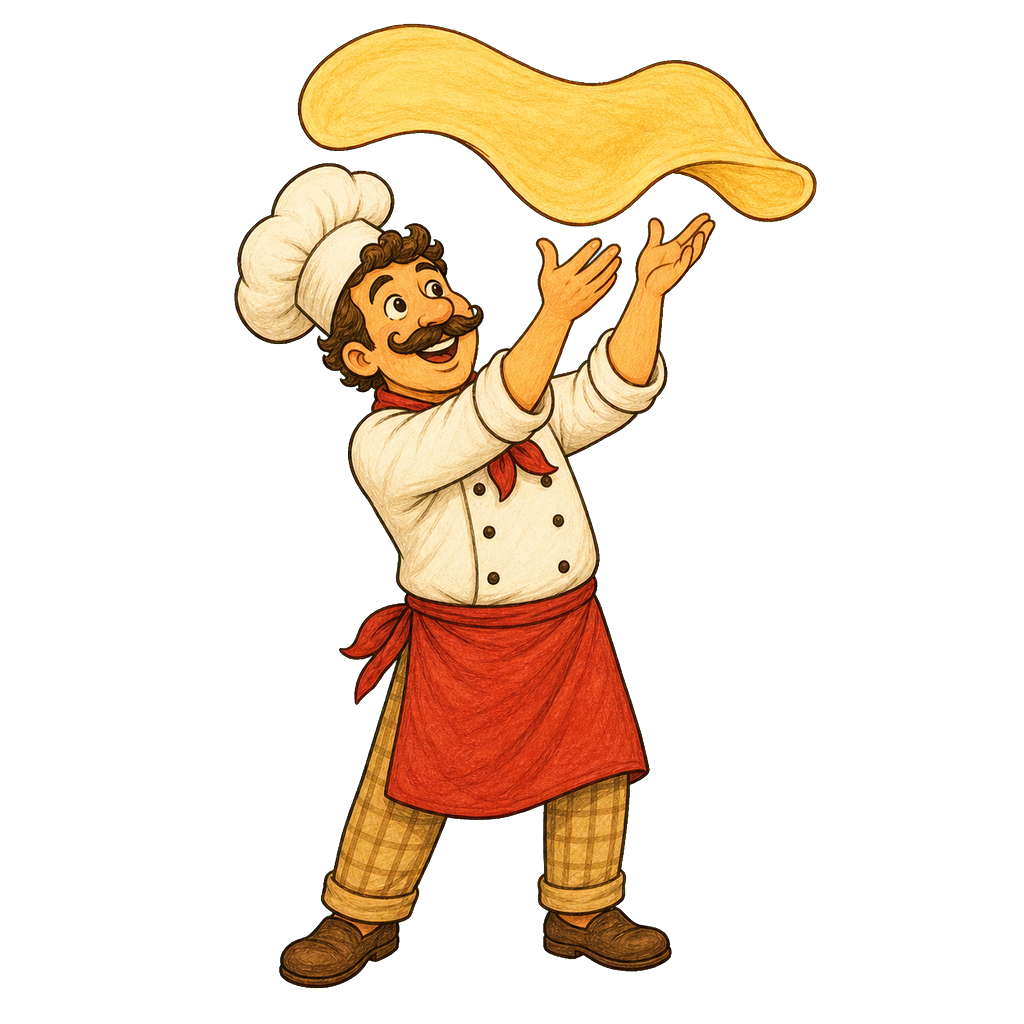
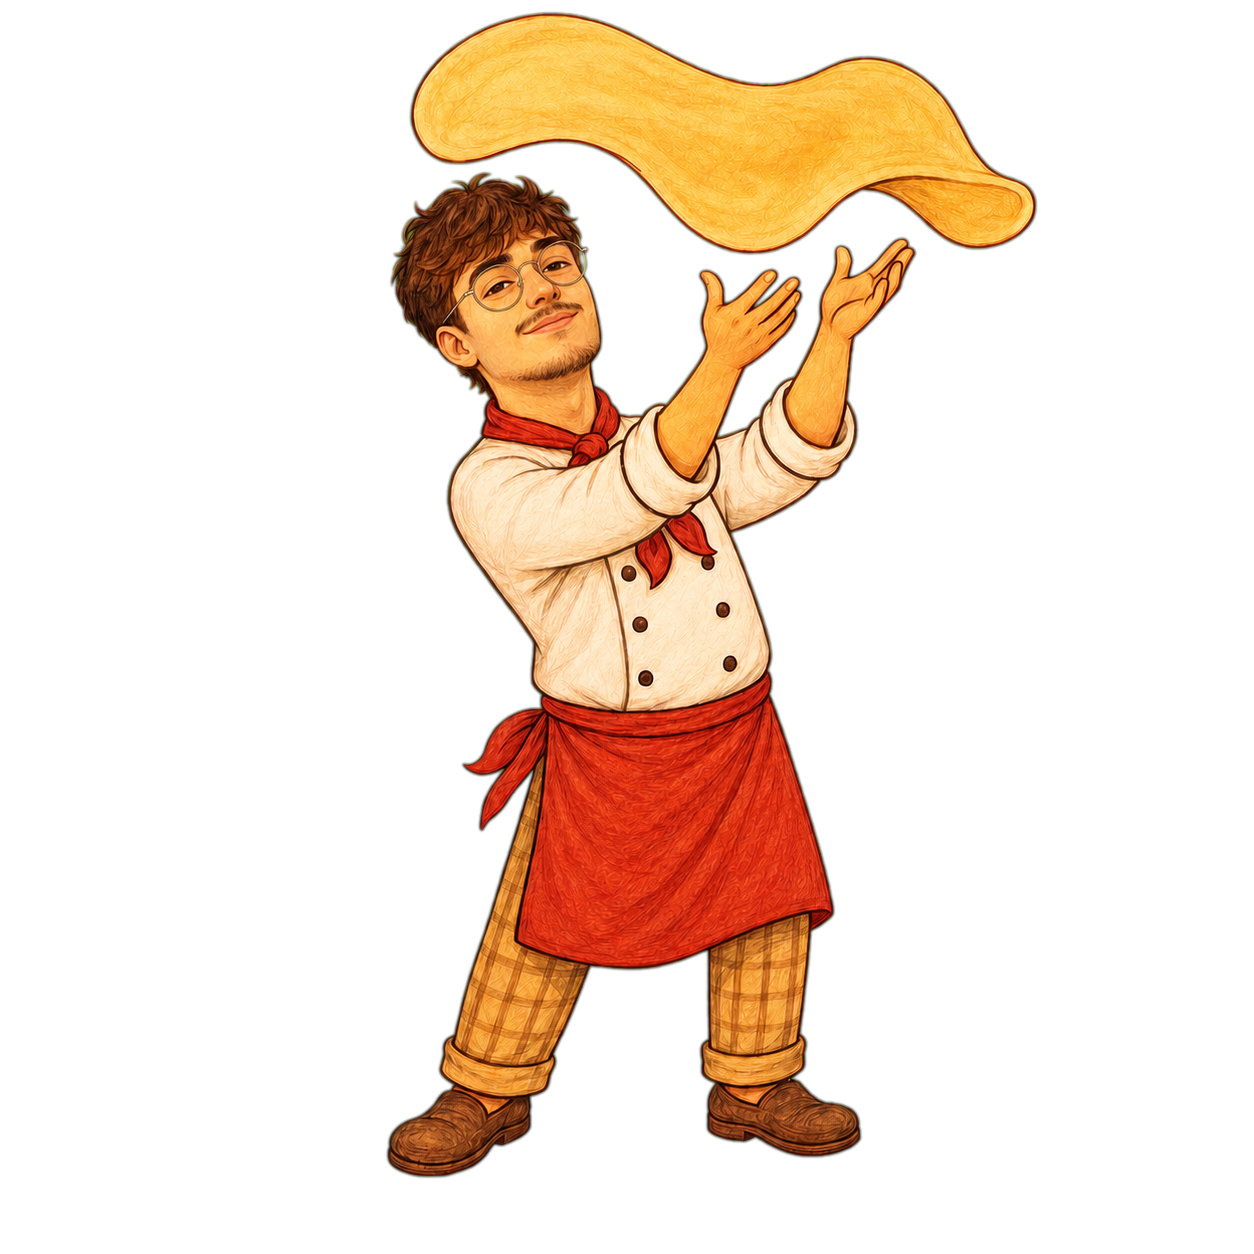
fix: update chef card image for improved visual consistency

Changed region(s): [[0.2188, 0.0, 0.8438, 0.9688]]

diff --git a/packages/engine/src/scoring.ts b/packages/engine/src/scoring.ts
@@ -53,6 +53,17 @@ export function scorePlayer(player: PlayerState): PlayerScore {
         chefStep = { label: chef.name, op: "add", value: bonus, before, after: acc };
         break;
       }
+      case "addPerDifferentLayerType": {
+        const layerTypes = new Set(
+          player.lasagna
+            .filter((l) => l.origin === "own" && l.subtype !== undefined)
+            .map((l) => l.subtype),
+        );
+        const bonus = layerTypes.size * chef.effect.value;
+        acc = before + bonus;
+        chefStep = { label: chef.name, op: "add", value: bonus, before, after: acc };
+        break;
+      }
       case "addPerCondimentPlayed": {
         const count = player.lasagna.filter(
           (l) => l.origin === "own" && l.subtype === undefined,

diff --git a/packages/engine/src/cards.ts b/packages/engine/src/cards.ts
@@ -255,6 +255,14 @@ export const CHEFS: readonly ChefCard[] = [
     effect: { kind: "multiplyTotal", factor: 1.15 },
     image: "card_chef_lidia.png",
   },
+  {
+    kind: "chef",
+    id: "chef_galvez",
+    name: "Gálvez",
+    description: "Suma 3 puntos por cada tipo de capa diferente que hayas colocado (máx. +9).",
+    effect: { kind: "addPerDifferentLayerType", value: 3 },
+    image: "card_chef_galvez.png",
+  },
 ];
 
 export const ALL_CARDS: readonly Card[] = [...INGREDIENTS, ...CONDIMENTS, ...CHEFS];

diff --git a/packages/engine/src/types.ts b/packages/engine/src/types.ts
@@ -35,6 +35,7 @@ export type ChefEffectSpec =
   | { kind: "multiplyTotal"; factor: number }
   | { kind: "addFlat"; value: number }
   | { kind: "addPerLayerType"; subtype: IngredientSubtype; value: number }
+  | { kind: "addPerDifferentLayerType"; value: number }
   | { kind: "addPerCondimentPlayed"; value: number };
 
 export interface ChefCard {

diff --git a/docs/cards.md b/docs/cards.md
@@ -51,6 +51,7 @@ Ubicación de assets en el proyecto: `public/assets/cards/` y `public/assets/ui/
 | `card_chef_dama.png`   | Dama      | Perro Yorkshire terrier disfrazado de chef degustando copa de vino. |
 | `card_chef_joan.png`   | Joan      | Chef rallando queso sobre una tabla de madera.                      |
 | `card_chef_lidia.png`  | Lidia     | Chef sentada disfrutando de copa de vino y buena cocina.            |
+| `card_chef_galvez.png` | Gálvez    | Chef montando capas de lasaña con regla y nivel de cocina.          |
 
 ---
 
